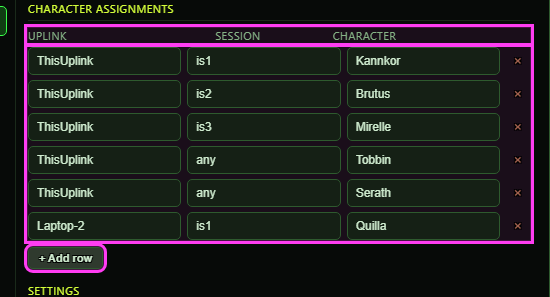
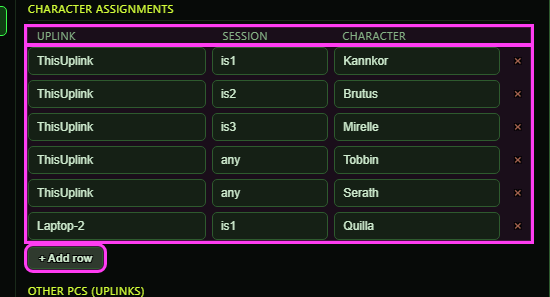
New OgreBot docs: publish the "OgreBot" section (EQ2/bot/)
Generated output from the private docs source (Scripts 57241c725+uncommitted); linted for gated names, mkdocs build --strict and link check green.

diff --git a/docs/EQ2/bot/windows/autologin.md b/docs/EQ2/bot/windows/autologin.md
@@ -11,9 +11,10 @@
 > **What you can do here**
 >
 > - **Profiles** - click one to open it. **+ New** starts a blank one; **Import** copies your old OgreBot profiles.
-> - **Character rows** - pick the PC (ThisUplink), the session (is1, is2, or any) and the character.
+> - **Character rows** - pick the PC (ThisUplink, or another PC), the session (is1, is2, or any) and the character.
+> - **Other PCs** - add another PC's uplink name so a row can put characters on it. Start connects to it and logs those characters in there.
 > - **Settings** - the game to launch and the pauses between launches and logins (in tenths of a second).
-> - **ISBoxer character set** - if you launch with ISBoxer, pick the set (the list shows this PC's sets). Start launches it first, then logs your characters into the sessions it opened, and launches only a session that is still missing. Leave it empty if you don't use ISBoxer.
+> - **ISBoxer character sets** - if you launch with ISBoxer, pick the set for each PC. Start launches them first, then logs your characters into the sessions they opened, and launches only a session that is still missing. Leave a PC empty if it doesn't use ISBoxer.
 > - **Save** the profile, **Delete** the one selected in the list, or make a **Desktop shortcut** that runs it.
 > - **Start** runs the selected saved profile. Tick **Dry run** to only list what it would do.
 >
@@ -21,7 +22,8 @@
 >
 > - Saving over an existing profile needs **Overwrite** ticked.
 > - Start runs the saved profile, so Save first.
-> - No passwords are stored; characters must be in your saved account list.
+> - No passwords are stored; characters must be in your saved account list - on another PC, in that PC's list.
+> - Another PC needs Ogre installed. One that can't be reached has its rows skipped.
 
 **Open it:** Type `ogre autologin`. `ogre end autologin` closes it.
 
@@ -60,11 +62,23 @@ One row per character. Each field is pick-or-type: click it for a list, or type 
 
 | Control | What it does | Default |
 |---|---|---|
-| **Uplink** | Which PC this character belongs to. ThisUplink means "whichever PC runs the profile". Otherwise type that PC's InnerSpace uplink name. A run only handles rows for its own PC; other rows are skipped.<br>*The list offers ThisUplink plus any PC names used in your other profiles.* | ThisUplink |
+| **Uplink** | Which PC this character is logged in on. ThisUplink means "whichever PC runs the profile". To put a character on another PC, add that PC to Other PCs below and pick it here: Start connects to that PC, launches and logs in its sessions there.<br>*The list offers ThisUplink plus the PCs in Other PCs (this PC itself is ThisUplink). That PC logs the character in with its own saved account list, and it needs Ogre installed.* | ThisUplink |
 | **Session** | Which InnerSpace session the character must be in: is1, is2 and so on. "any" means any session is fine: if the character is already in the world somewhere it is left alone, otherwise a free session is used or a new one is launched.<br>*The list offers any and is1 to is24. Left empty, it saves as any.* | any |
 | **Character** | The character to log in. The list shows the characters in your saved account list.<br>*A character that is not in your saved account list gets a warning when the profile runs, because its account cannot be looked up.* | empty |
 | **x (remove row)** | Removes that character row. If it was the last row, a fresh empty row takes its place.<br>*Not saved until you click Save.* |  |
 | **+ Add row** | Adds another character row (Uplink ThisUplink, Session any, Character empty). |  |
+
+## Other PCs (uplinks)
+
+The other PCs a character row can name, by their InnerSpace uplink name. It is the same list as OgreBot's Uplink Info tab and the MCP's Connect button. When a profile has rows on another PC, Start connects to that PC if it is not connected yet, checks that its uplink answers, then launches, logs in and loads OgreBot on its sessions from this PC. A PC that cannot be reached has its rows skipped and the rest of the profile still runs.
+
+[![Other PCs (uplinks)](../assets/autologin/uplinks.png)](../assets/autologin/uplinks.png "Click for full size")
+
+| Control | What it does | Default |
+|---|---|---|
+| **Uplink name** | Type the InnerSpace uplink name of another PC (in InnerSpace on that PC: its Remote name). | empty |
+| **+ Add** | Adds the typed name to the list. The log says whether it was added.<br>*The list is saved at once, for every profile on this PC.* |  |
+| **x (remove PC)** | Takes that PC off the list.<br>*Rows that name it keep the name; Start still tries to connect to it.* |  |
 
 ## Settings
 
@@ -76,6 +90,7 @@ Times are in tenths of a second: 150 means 15 seconds. The editor scrolls; these
 |---|---|---|
 | **Game** | The InnerSpace game entry used when a new session has to be launched. The list comes from the games set up in InnerSpace.<br>*Left empty, it saves as Everquest 2.* | Everquest 2 |
 | **Game profile** | The InnerSpace game profile used when a new session has to be launched. The list shows the profiles of the game chosen above. | everquest 2 default profile |
+| **ISBoxer character sets** | If you launch with ISBoxer, the character set to launch on each PC: one line for this PC (ThisUplink) and one for each other PC the rows name. Start launches every PC's set first (another PC's on that PC), then logs your characters into the sessions they opened, and launches only a session that is still missing.<br>*Each list shows that PC's sets from ISBoxer. Leave a line empty for a PC that does not use ISBoxer. A PC whose last row is removed keeps no set.* | empty (no ISBoxer) |
 | **Wait after load** | After new sessions are launched, how long to wait for them to load before logging anyone in. Only used when a session had to be launched. | 150 (15 seconds) |
 | **Wait between launches** | The pause after each new session is launched, before the next one. | 50 (5 seconds) |
 | **Login stagger - base** | The pause between one character's login and the next, so the server is not hit with every login at once. | 300 (30 seconds) |
@@ -117,8 +132,8 @@ At the opening window size these buttons are below the fold: scroll the right si
 
 - Saving changes to an existing profile needs Overwrite ticked, even if it is the profile you just opened.
 - Start runs the SAVED profile. Save first if you changed anything.
-- A run only handles rows for the PC it runs on (ThisUplink rows and rows naming this PC). Rows for another PC are skipped; to run them, copy the profile to that PC and start it there.
-- Profiles are saved as files in Scripts\OgreSave\EQ2\AutoLogin\Profiles. You can copy them to another PC; they hold no passwords.
+- Rows on another PC are run from this PC: it connects to that PC and drives its sessions there. That PC needs Ogre installed and the characters in its own saved account list - passwords never leave the PC they are saved on.
+- Profiles are saved as files in Scripts\OgreSave\EQ2\AutoLogin\Profiles. They hold no passwords, so they are safe to copy or share.
 - Characters must be in your saved account list so their account can be found when the profile runs.
 - Opening the window again while it is open does nothing, so the profile you are editing stays.
 

diff --git a/docs/EQ2/bot/windows/travel.md b/docs/EQ2/bot/windows/travel.md
@@ -1,0 +1,87 @@
+# Travel Helper
+
+<div class="ogre-beta" markdown>
+**OgreBot is in beta testing.** Looking for OgreBot Classic? [Click here](../../index.md).
+</div>
+
+> **:bulb: In game - the ? button on this window says**
+>
+> Lists where a travel map can take you, then sends your group to the one you pick.
+>
+> **What you can do here**
+>
+> - **Fast Travel, Wizard Spire, Druid Rings, Bell** - this character opens that map (standing by the spire, ring or bell for those three), reads every destination and lists them. The map closes again.
+> - **Open Travel Map** - lists the travel map you already have open, and leaves it open.
+> - **Double-click a destination**, or select it and press **Travel** - everyone in the Master Control Panel's For Who window travels there. Each opens their own map and clicks that exact destination.
+> - **Filter** - type part of a name to shorten the list.
+> - **Keep list open after travelling** - leave this window up after you pick.
+>
+> **Good to know**
+>
+> - If the For Who window was never set, everyone travels.
+> - Spire, ring and bell travel needs that object within reach of every character you send.
+> - With Open Travel Map, everyone you send must have their own map open too.
+
+**Open it:** Type `ogre travel`. Add a method to open it straight on that list: `ogre travel fast`, `ogre travel spire`, `ogre travel druid`, `ogre travel bell` or `ogre travel map`. A Master Control Panel button migrated from the old bot's Travel Helper opens it too.
+
+[![Travel Helper](../assets/travel/window.png)](../assets/travel/window.png "Click for full size")
+
+## What it is for
+
+The Travel Helper sends your group somewhere without anyone typing a zone name. Pick how to travel and this character opens that travel map, reads every destination it offers and lists them here. Double-click one and every character in the For Who window travels there: each opens its own map and clicks that exact destination. It is the old bot's Travel Helper window, rebuilt.
+
+## Choosing how to travel
+
+Each button makes this character open that kind of travel map and list it. The map closes again once it has been read, except for Open Travel Map.
+
+[![Choosing how to travel](../assets/travel/methods.png)](../assets/travel/methods.png "Click for full size")
+
+| Control | What it does |
+|---|---|
+| **Fast Travel** | Opens the Fast Travel map and lists its destinations. Works anywhere you can fast travel from. |
+| **Wizard Spire** | Clicks the wizard spire next to you and lists where it goes. You must be standing by a spire.<br>*Nothing is cast: it uses the spire in the world, the same as the old bot.* |
+| **Druid Rings** | Clicks the druid ring next to you, or in a guild hall the portal druid, and lists where it goes. |
+| **Bell** | Clicks the bell or globe next to you and lists where it goes. |
+| **Open Travel Map** | Lists the travel map you already have open, and leaves it open.<br>*Everyone you send to must have their own travel map open too - this one opens nothing for them.* |
+
+## Picking a destination
+
+The list shows every destination the map offers, in the map's order. Type in the filter box to narrow it.
+
+[![Picking a destination](../assets/travel/list.png)](../assets/travel/list.png "Click for full size")
+
+| Control | What it does |
+|---|---|
+| **Filter destinations** | Shows only the destinations whose name contains what you type. |
+| **Destination list** | Click a destination to select it. Double-click it to travel there. |
+| **Travel** | Sends everyone in the For Who window to the selected destination.<br>*Each character opens its own map and clicks exactly that destination - the whole name, not part of it.* |
+| **Keep list open after travelling** | Leaves this window open after you send the group. Off, it closes once you pick. |
+
+## What the window shows
+
+- Sends to: who a pick goes to and how, read from the Master Control Panel's For Who window.
+- Opening the map and reading it...: this character is opening the map. The buttons are greyed out until it finishes.
+- Could not list: why the map could not be read, for example nothing to click is in reach.
+- The line under Sends to: what the last pick sent, and to whom.
+
+## Good to know
+
+- The For Who window decides who travels. If it was never set, everyone travels.
+- Wizard Spire, Druid Rings and Bell need the spire, ring or bell within reach of every character you send. Anyone too far away stays where they are.
+- Picking a destination with several drop-off points or instances uses the same choice as the travel commands: the last one offered.
+
+### Before anything is listed
+
+![Empty](../assets/travel/empty.png)
+
+### Filtering
+
+![Filter](../assets/travel/filter.png)
+
+### While it reads the map
+
+![Listing](../assets/travel/listing.png)
+
+### When nothing can be opened
+
+![Failed](../assets/travel/failed.png)

diff --git a/docs/EQ2/bot/whats-new.md b/docs/EQ2/bot/whats-new.md
@@ -10,6 +10,15 @@ A release is named by the day it was published and its number that day: **2026.1
 
 Dates and times are US Eastern time (EST in winter, EDT in summer).
 
+## 2026.10.26.002 {#r2026-10-26-002}
+
+*Monday, October 26, 2026 at 9:35 PM EDT*
+
+- **New** · Windows: **Travel Helper window - list a travel map's destinations and send the group to one.** Type `ogre travel` and pick Fast Travel, Wizard Spire, Druid Rings, Bell or Open Travel Map: this character opens that map and lists every destination it offers. Double-click one and everyone in the For Who window travels there, each picking that exact destination on their own map. A Master Control Panel Travel Helper button migrated from the old bot opens it too.
+- **New** · Setup: **Auto-Login logs characters in on your other PCs too.** A profile row can now put a character on another PC: add that PC under Other PCs in the Auto-Login window and pick it in the row. Start connects to it, launches its ISBoxer set or missing sessions there, and logs those characters in with that PC's own saved accounts. Each PC can have its own ISBoxer character set, and the other PC needs Ogre installed.
+- **Fixed** · Bot: **Cast Stack editor - the tag role can be picked, and editing keeps hidden settings.** The Embargo role and Allow role dropdowns opened empty, so a tag could be picked but its role (Both, Trigger Only or Listen Only) could not. They list the three roles now. Editing an entry for an ability this character does not have also quietly dropped settings the editor could not show, such as Ignore Duration; those are kept now.
+- **Fixed** · Windows: **Master Control Panel - each character stays on its own page.** Clicking a page in the Master Control Panel switched it on every character's panel. Now each character keeps the page it is on, and editing buttons or pages on one character no longer moves the others off theirs. Buttons and pages are still shared by every character on this PC.
+
 ## 2026.10.26.001 {#r2026-10-26-001}
 
 *Monday, October 26, 2026 at 2:19 AM EDT*

diff --git a/docs/EQ2/bot/windows/mcp.md b/docs/EQ2/bot/windows/mcp.md
@@ -54,7 +54,7 @@ Each page is its own set of buttons for the right-hand block. The static block d
 
 | Control | What it does | Default |
 |---|---|---|
-| **Click a page** | Switches the right-hand block to that page's buttons.<br>*The page you are on is shared: switching page switches it in every open MCP on this PC.* |  |
+| **Click a page** | Switches the right-hand block to that page's buttons.<br>*Each character has its own page: switching here does not switch any other MCP. An edit made on another character keeps you on your page.* |  |
 | **+ Page** | Adds a new empty page called 'Page N' at the bottom and switches to it. |  |
 | **Drag a page** | Moves the page up or down the list. A line shows where it will land. You stay on the same page.<br>*Keys assigned to buttons follow the buttons, so moving pages does not change what a key presses.* | on (needs Allow moving) |
 | **Right-click a page > Switch to this page** | Same as clicking the page. |  |
@@ -194,7 +194,7 @@ The Layout drawer. Changes show at once and are saved. They change the buttons, 
 
 ## Good to know
 
-- Your buttons, pages, the page you are on and your For Who choice are one file shared by every character on this PC: Scripts/OgreSave/EQ2/OgreMCP.json. A change on one character shows up in every open MCP at once.
+- Your buttons and pages are one file shared by every character on this PC: Scripts/OgreSave/EQ2/OgreMCP.json. A change to them on one character shows up in every open MCP at once. The page you are looking at and your For Who choice are each character's own.
 - Changing button size or spacing does not resize the window. Nudge the window edge and it snaps to fit whole buttons again.
 - The page column shows only as many pages as there are rows. With more pages than rows, make the window taller (Find still reaches buttons on hidden pages).
 - A button that names its own target in every step ignores For Who. If any step is left on the For Who window (blank), For Who decides.
